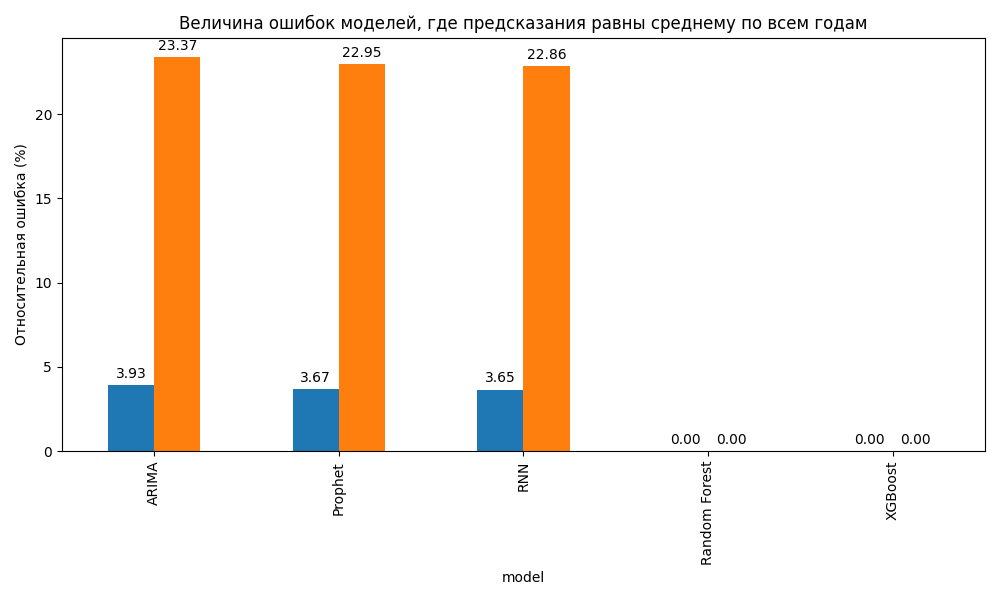
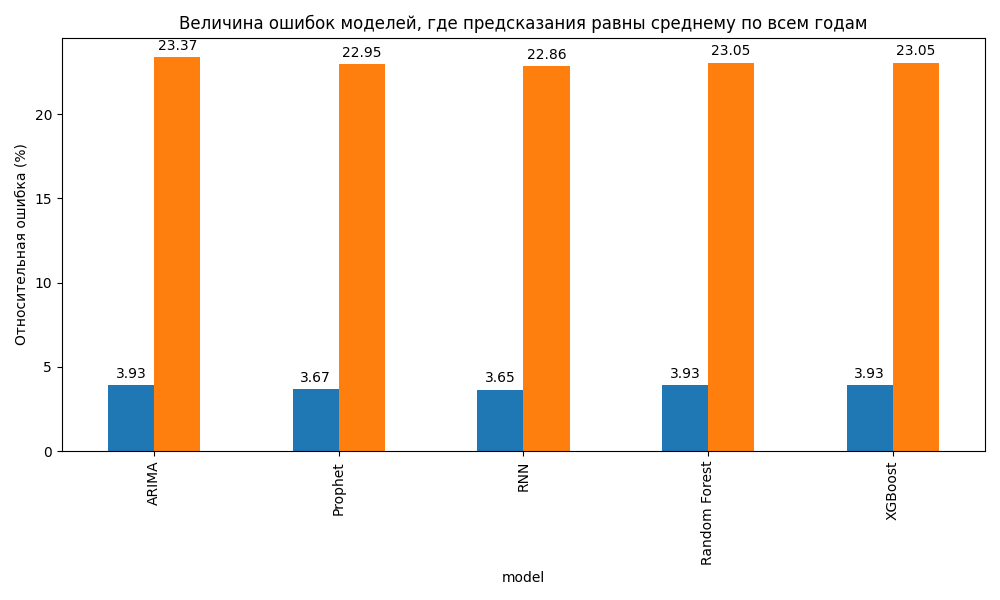
Auto update metrics [ci skip]

Changed region(s): [[0.837, 0.06, 0.961, 0.75], [0.651, 0.06, 0.775, 0.75]]

diff --git a/notebooks/Readme.md b/notebooks/Readme.md
@@ -81,58 +81,42 @@ R²: -0.1060
 
 ## Модель: Random Forest — СКР
 ```
-Traceback (most recent call last):
-  File "/var/lib/jenkins/workspace/Check accuracy/venv/lib/python3.12/site-packages/pandas/core/indexes/base.py", line 3812, in get_loc
-    return self._engine.get_loc(casted_key)
-           ^^^^^^^^^^^^^^^^^^^^^^^^^^^^^^^^
-  File "pandas/_libs/index.pyx", line 167, in pandas._libs.index.IndexEngine.get_loc
-  File "pandas/_libs/index.pyx", line 196, in pandas._libs.index.IndexEngine.get_loc
-  File "pandas/_libs/hashtable_class_helper.pxi", line 7088, in pandas._libs.hashtable.PyObjectHashTable.get_item
-  File "pandas/_libs/hashtable_class_helper.pxi", line 7096, in pandas._libs.hashtable.PyObjectHashTable.get_item
-KeyError: 'СКР'
-
-The above exception was the direct cause of the following exception:
-
-Traceback (most recent call last):
-  File "/var/lib/jenkins/workspace/Check accuracy/check_metrics.py", line 147, in <module>
-    main()
-  File "/var/lib/jenkins/workspace/Check accuracy/check_metrics.py", line 93, in main
-    mask = ~np.isnan(df[args.target]) & ~np.isnan(df['predictions'])
-                     ~~^^^^^^^^^^^^^
-  File "/var/lib/jenkins/workspace/Check accuracy/venv/lib/python3.12/site-packages/pandas/core/frame.py", line 4113, in __getitem__
-    indexer = self.columns.get_loc(key)
-              ^^^^^^^^^^^^^^^^^^^^^^^^^
-  File "/var/lib/jenkins/workspace/Check accuracy/venv/lib/python3.12/site-packages/pandas/core/indexes/base.py", line 3819, in get_loc
-    raise KeyError(key) from err
-KeyError: 'СКР'
+====================================================================================================
+Отклонение таргета относительно прогноза:
+RMSE: 0.0531
+MAE: 0.0391
+R²: 0.9628
+Средний СКР: 1.4365
+Относительная ошибка: 3.70%
+====================================================================================================
+Отклонение таргета относительно СРЕДНЕГО:
+RMSE: 0.3311
+MAE: 0.2689
+R²: -0.4436
+Средний СКР: 1.4365
+Относительная ошибка: 23.05%
+====================================================================================================
+{"RMSE": 0.05314318019838272, "MAE": 0.03907372708764437, "R2": 0.9628050116490402, "relative_error": 3.6995661890766014, "relative_average": 23.04800988295015}
 ```
 
 ## Модель: Random Forest — ОПЖ
 ```
-Traceback (most recent call last):
-  File "/var/lib/jenkins/workspace/Check accuracy/venv/lib/python3.12/site-packages/pandas/core/indexes/base.py", line 3812, in get_loc
-    return self._engine.get_loc(casted_key)
-           ^^^^^^^^^^^^^^^^^^^^^^^^^^^^^^^^
-  File "pandas/_libs/index.pyx", line 167, in pandas._libs.index.IndexEngine.get_loc
-  File "pandas/_libs/index.pyx", line 196, in pandas._libs.index.IndexEngine.get_loc
-  File "pandas/_libs/hashtable_class_helper.pxi", line 7088, in pandas._libs.hashtable.PyObjectHashTable.get_item
-  File "pandas/_libs/hashtable_class_helper.pxi", line 7096, in pandas._libs.hashtable.PyObjectHashTable.get_item
-KeyError: 'ОПЖ'
-
-The above exception was the direct cause of the following exception:
-
-Traceback (most recent call last):
-  File "/var/lib/jenkins/workspace/Check accuracy/check_metrics.py", line 147, in <module>
-    main()
-  File "/var/lib/jenkins/workspace/Check accuracy/check_metrics.py", line 93, in main
-    mask = ~np.isnan(df[args.target]) & ~np.isnan(df['predictions'])
-                     ~~^^^^^^^^^^^^^
-  File "/var/lib/jenkins/workspace/Check accuracy/venv/lib/python3.12/site-packages/pandas/core/frame.py", line 4113, in __getitem__
-    indexer = self.columns.get_loc(key)
-              ^^^^^^^^^^^^^^^^^^^^^^^^^
-  File "/var/lib/jenkins/workspace/Check accuracy/venv/lib/python3.12/site-packages/pandas/core/indexes/base.py", line 3819, in get_loc
-    raise KeyError(key) from err
-KeyError: 'ОПЖ'
+====================================================================================================
+Отклонение таргета относительно прогноза:
+RMSE: 1.7823
+MAE: 1.6643
+R²: 0.5312
+Средний ОПЖ: 72.4341
+Относительная ошибка: 2.46%
+====================================================================================================
+Отклонение таргета относительно СРЕДНЕГО:
+RMSE: 2.8435
+MAE: 2.1326
+R²: -0.1932
+Средний ОПЖ: 72.4341
+Относительная ошибка: 3.93%
+====================================================================================================
+{"RMSE": 1.782277351228856, "MAE": 1.664282225610894, "R2": 0.5312267639186696, "relative_error": 2.46054954367381, "relative_average": 3.9255724713872944}
 ```
 
 ## Модель: RNN — СКР
@@ -177,58 +161,42 @@ R²: -0.1080
 
 ## Модель: XGBoost — СКР
 ```
-Traceback (most recent call last):
-  File "/var/lib/jenkins/workspace/Check accuracy/venv/lib/python3.12/site-packages/pandas/core/indexes/base.py", line 3812, in get_loc
-    return self._engine.get_loc(casted_key)
-           ^^^^^^^^^^^^^^^^^^^^^^^^^^^^^^^^
-  File "pandas/_libs/index.pyx", line 167, in pandas._libs.index.IndexEngine.get_loc
-  File "pandas/_libs/index.pyx", line 196, in pandas._libs.index.IndexEngine.get_loc
-  File "pandas/_libs/hashtable_class_helper.pxi", line 7088, in pandas._libs.hashtable.PyObjectHashTable.get_item
-  File "pandas/_libs/hashtable_class_helper.pxi", line 7096, in pandas._libs.hashtable.PyObjectHashTable.get_item
-KeyError: 'СКР'
-
-The above exception was the direct cause of the following exception:
-
-Traceback (most recent call last):
-  File "/var/lib/jenkins/workspace/Check accuracy/check_metrics.py", line 147, in <module>
-    main()
-  File "/var/lib/jenkins/workspace/Check accuracy/check_metrics.py", line 93, in main
-    mask = ~np.isnan(df[args.target]) & ~np.isnan(df['predictions'])
-                     ~~^^^^^^^^^^^^^
-  File "/var/lib/jenkins/workspace/Check accuracy/venv/lib/python3.12/site-packages/pandas/core/frame.py", line 4113, in __getitem__
-    indexer = self.columns.get_loc(key)
-              ^^^^^^^^^^^^^^^^^^^^^^^^^
-  File "/var/lib/jenkins/workspace/Check accuracy/venv/lib/python3.12/site-packages/pandas/core/indexes/base.py", line 3819, in get_loc
-    raise KeyError(key) from err
-KeyError: 'СКР'
+====================================================================================================
+Отклонение таргета относительно прогноза:
+RMSE: 0.0475
+MAE: 0.0365
+R²: 0.9703
+Средний СКР: 1.4365
+Относительная ошибка: 3.30%
+====================================================================================================
+Отклонение таргета относительно СРЕДНЕГО:
+RMSE: 0.3311
+MAE: 0.2689
+R²: -0.4436
+Средний СКР: 1.4365
+Относительная ошибка: 23.05%
+====================================================================================================
+{"RMSE": 0.047457335419952645, "MAE": 0.036534461649726464, "R2": 0.9703382993416428, "relative_error": 3.303745709005712, "relative_average": 23.04800988295015}
 ```
 
 ## Модель: XGBoost — ОПЖ
 ```
-Traceback (most recent call last):
-  File "/var/lib/jenkins/workspace/Check accuracy/venv/lib/python3.12/site-packages/pandas/core/indexes/base.py", line 3812, in get_loc
-    return self._engine.get_loc(casted_key)
-           ^^^^^^^^^^^^^^^^^^^^^^^^^^^^^^^^
-  File "pandas/_libs/index.pyx", line 167, in pandas._libs.index.IndexEngine.get_loc
-  File "pandas/_libs/index.pyx", line 196, in pandas._libs.index.IndexEngine.get_loc
-  File "pandas/_libs/hashtable_class_helper.pxi", line 7088, in pandas._libs.hashtable.PyObjectHashTable.get_item
-  File "pandas/_libs/hashtable_class_helper.pxi", line 7096, in pandas._libs.hashtable.PyObjectHashTable.get_item
-KeyError: 'ОПЖ'
-
-The above exception was the direct cause of the following exception:
-
-Traceback (most recent call last):
-  File "/var/lib/jenkins/workspace/Check accuracy/check_metrics.py", line 147, in <module>
-    main()
-  File "/var/lib/jenkins/workspace/Check accuracy/check_metrics.py", line 93, in main
-    mask = ~np.isnan(df[args.target]) & ~np.isnan(df['predictions'])
-                     ~~^^^^^^^^^^^^^
-  File "/var/lib/jenkins/workspace/Check accuracy/venv/lib/python3.12/site-packages/pandas/core/frame.py", line 4113, in __getitem__
-    indexer = self.columns.get_loc(key)
-              ^^^^^^^^^^^^^^^^^^^^^^^^^
-  File "/var/lib/jenkins/workspace/Check accuracy/venv/lib/python3.12/site-packages/pandas/core/indexes/base.py", line 3819, in get_loc
-    raise KeyError(key) from err
-KeyError: 'ОПЖ'
+====================================================================================================
+Отклонение таргета относительно прогноза:
+RMSE: 1.6297
+MAE: 1.5384
+R²: 0.6081
+Средний ОПЖ: 72.4341
+Относительная ошибка: 2.25%
+====================================================================================================
+Отклонение таргета относительно СРЕДНЕГО:
+RMSE: 2.8435
+MAE: 2.1326
+R²: -0.1932
+Средний ОПЖ: 72.4341
+Относительная ошибка: 3.93%
+====================================================================================================
+{"RMSE": 1.6296517189554618, "MAE": 1.5383931202608003, "R2": 0.6080760260726856, "relative_error": 2.2498399537301936, "relative_average": 3.9255724713872944}
 ```
 
 ## Диаграмма относительных ошибок
